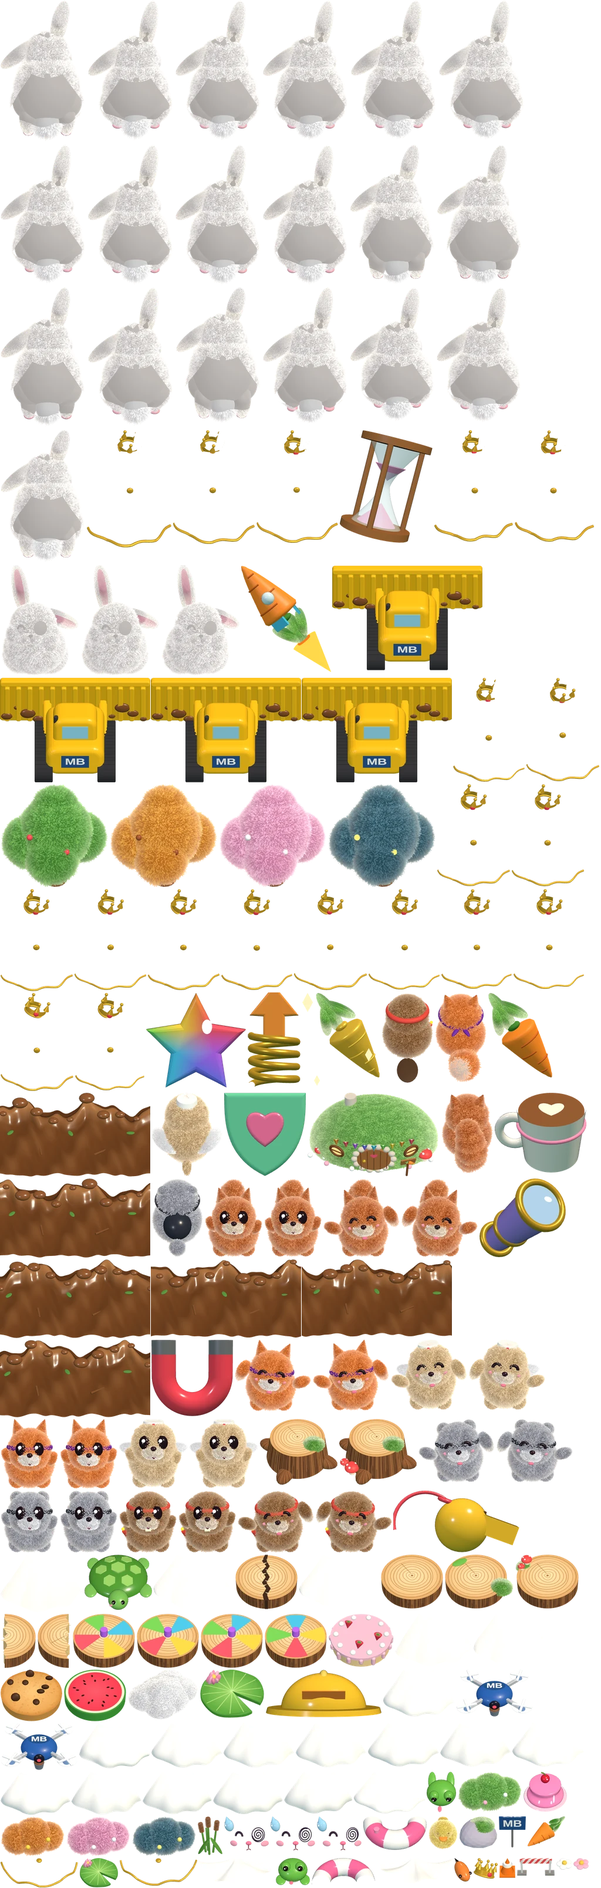
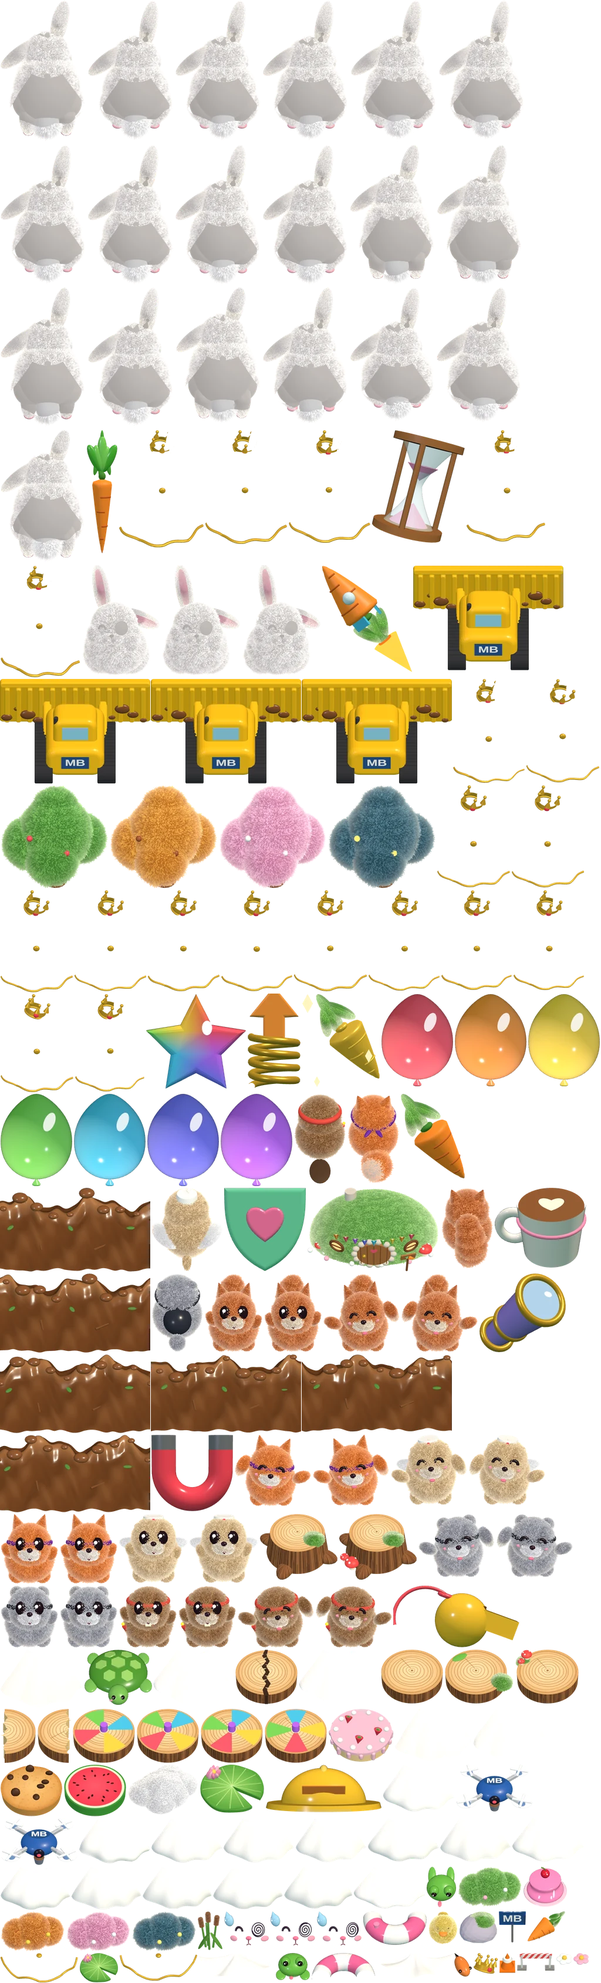
alfa 72889c1: Fans of Jump: la zanahoria de la fuerza más larga y con las hojas siempre verdes

diff --git a/alfa/games/jump/js/atlas.js b/alfa/games/jump/js/atlas.js
@@ -2,4 +2,4 @@
 // Cada dibujo: [x, y, ancho, alto, ax, ay] en la lámina; (ax, ay) es su punto de apoyo. «unidad»: píxeles de la lámina por cada
 // unidad del modelo 3D (de lado, y de alto en el suelo).
 'use strict';
-const ATLAS = {"src":"img/atlas.webp","unidadX":52.5,"unidadY":39.2,"cuadros":{"quieto0_cuerpo":[149,0,148,244,83.0,179.3],"quieto0_capa":[242,3018,119,74,60.0,47.3],"quieto0_oro":[751,1514,122,172,61.5,143.3],"quieto1_cuerpo":[597,0,149,243,83.0,178.8],"quieto1_capa":[362,3018,120,74,60.5,46.8],"quieto1_oro":[874,1514,122,172,62.0,142.8],"quieto2_cuerpo":[0,246,148,242,83.0,178.8],"quieto2_capa":[0,3018,120,75,61.0,46.8],"quieto2_oro":[627,1514,123,173,62.5,142.8],"quieto3_cuerpo":[747,0,149,243,83.0,178.8],"quieto3_capa":[626,2935,122,76,61.0,46.8],"quieto3_oro":[126,1514,124,174,62.5,142.8],"quieto4_cuerpo":[298,0,148,244,83.0,179.3],"quieto4_capa":[257,2935,122,78,61.0,47.3],"quieto4_oro":[744,1335,126,176,62.5,143.3],"quieto5_cuerpo":[149,246,148,242,83.0,179.8],"quieto5_capa":[503,2935,122,77,60.5,47.3],"quieto5_oro":[871,1335,125,176,62.0,143.8],"quieto6_cuerpo":[298,246,148,242,83.0,179.8],"quieto6_capa":[749,2935,122,76,60.0,47.8],"quieto6_oro":[251,1514,124,174,61.5,143.8],"quieto7_cuerpo":[447,246,148,242,83.0,179.8],"quieto7_capa":[121,3018,120,75,59.5,47.3],"quieto7_oro":[376,1514,123,174,61.5,143.8],"agacha_cuerpo":[596,489,146,234,81.5,166.3],"agacha_capa":[483,3018,118,73,59.5,37.8],"agacha_oro":[127,1691,120,168,61.0,131.3],"salto0_cuerpo":[0,732,146,230,80.5,162.3],"salto0_capa":[134,2935,122,79,60.0,50.8],"salto0_oro":[771,1154,124,179,62.0,148.8],"salto1_cuerpo":[299,489,147,237,80.5,168.3],"salto1_capa":[261,2648,138,95,67.0,51.3],"salto1_oro":[294,732,141,196,68.5,149.3],"salto2_cuerpo":[596,246,147,242,80.0,173.8],"salto2_capa":[0,2648,142,100,72.5,51.8],"salto2_oro":[147,732,146,202,74.5,150.3],"salto3_cuerpo":[0,0,148,245,80.5,176.3],"salto3_capa":[672,2749,133,91,68.0,51.8],"salto3_oro":[739,732,136,192,70.0,150.3],"salto4_cuerpo":[744,246,147,242,81.0,176.3],"salto4_capa":[806,2749,134,91,65.0,50.8],"salto4_oro":[876,732,137,192,67.0,149.3],"salto5_cuerpo":[0,489,148,242,81.5,175.8],"salto5_capa":[509,2648,138,94,67.5,49.8],"salto5_oro":[436,732,141,194,69.5,147.8],"aterriza0_cuerpo":[743,489,148,234,82.0,168.8],"aterriza0_capa":[602,3018,123,73,61.0,39.8],"aterriza0_oro":[0,1691,126,169,63.0,133.8],"aterriza1_cuerpo":[447,489,148,237,82.5,172.8],"aterriza1_capa":[652,2844,123,82,61.0,42.8],"aterriza1_oro":[896,1154,126,178,62.5,136.8],"aterriza2_cuerpo":[149,489,149,242,83.0,177.3],"aterriza2_capa":[872,2935,124,76,61.5,45.3],"aterriza2_oro":[500,1514,126,174,63.0,141.3],"aterriza3_cuerpo":[447,0,149,244,83.0,179.3],"aterriza3_capa":[380,2935,122,78,60.5,46.8],"aterriza3_oro":[0,1514,125,176,62.0,142.8],"flota0_cuerpo":[0,963,135,190,59.0,180.8],"flota0_oro":[381,3094,78,60,49.5,105.8],"flota1_cuerpo":[136,963,136,190,61.0,180.8],"flota1_oro":[460,3094,78,60,44.0,105.8],"flota2_cuerpo":[273,963,136,190,63.0,180.8],"flota2_oro":[539,3094,78,60,39.0,105.8],"zorro_susto0":[0,2417,100,121,50.5,102.3],"zorro_susto1":[101,2417,100,121,50.5,102.3],"zorro_espalda":[740,1691,90,154,45.5,96.3],"zorro_anima0":[532,2282,132,123,69.0,104.3],"zorro_anima1":[399,2282,132,124,62.5,104.8],"mapache_susto0":[0,2539,100,108,50.5,89.3],"mapache_susto1":[101,2539,100,108,50.5,89.3],"mapache_espalda":[257,2007,90,136,45.5,96.3],"mapache_anima0":[712,2417,132,110,69.0,91.8],"mapache_anima1":[845,2417,132,110,62.5,91.8],"suricata_susto0":[202,2417,119,120,59.5,101.8],"suricata_susto1":[322,2417,119,120,59.5,101.8],"suricata_espalda":[257,1861,123,144,61.5,106.3],"suricata_anima0":[665,2282,132,122,69.0,103.3],"suricata_anima1":[798,2282,132,122,62.5,103.3],"castor_susto0":[202,2539,100,108,50.5,88.8],"castor_susto1":[303,2539,100,108,50.5,88.8],"castor_espalda":[649,1691,90,155,45.5,96.3],"castor_anima0":[404,2539,132,108,69.0,88.8],"castor_anima1":[537,2539,132,108,62.5,88.8],"ardilla_susto0":[348,2007,100,136,50.5,117.8],"ardilla_susto1":[449,2007,100,136,50.5,117.8],"ardilla_espalda":[751,1861,90,140,45.5,96.3],"ardilla_anima0":[550,2007,132,136,69.0,117.8],"ardilla_anima1":[683,2007,132,136,62.5,117.8],"tronco0":[648,2648,108,94,54.0,36.3],"tronco1":[757,2648,119,94,54.0,36.3],"tronco2":[877,2648,110,94,56.0,36.3],"piel_nenufar":[340,2844,111,84,55.5,37.8],"piel_galleta":[0,2844,107,90,53.5,35.8],"piel_sandia":[108,2844,108,90,54.0,36.3],"piel_tarta":[559,2749,112,92,56.5,36.8],"piel_nube":[217,2844,122,87,62.5,37.8],"tronco_grieta":[400,2648,108,95,54.0,37.3],"tronco_mitad0":[0,2749,62,94,8.0,36.3],"tronco_mitad1":[63,2749,59,94,54.0,36.3],"tocon0":[442,2417,134,114,65.0,61.8],"tocon1":[577,2417,134,114,65.0,61.8],"arbol0":[0,1335,185,178,94.5,160.8],"arbusto0":[779,3018,111,70,56.5,51.8],"roca0":[782,3094,66,56,33.5,39.3],"juncos0":[336,3094,44,68,22.5,64.8],"flor0":[947,3165,28,22,14.5,14.3],"flor1":[976,3165,28,22,14.5,14.3],"dron0":[776,2844,133,82,66.5,86.3],"dron1":[0,2935,133,82,66.5,86.3],"flotador_atras":[530,3165,110,47,55.5,46.3],"flotador_delante":[618,3094,110,59,55.0,16.8],"corona_suelta":[806,3165,43,37,20.0,32.8],"capaflota0":[338,3165,130,48,65.0,14.8],"capaflota1":[641,3165,131,45,65.5,14.8],"capaflota0oro":[0,3165,134,52,66.5,17.3],"capaflota1oro":[203,3165,134,49,67.0,17.3],"zanahoria":[898,3094,66,53,43.0,32.8],"casco_icono":[452,2844,199,83,99.5,139.3],"cafe_icono":[842,1861,158,138,97.0,165.3],"suerte_icono":[514,1691,134,160,64.0,149.3],"mirilla_icono":[816,2007,149,136,78.0,162.8],"iman_icono":[257,2282,141,132,70.5,139.3],"super_icono":[421,1691,92,162,46.0,180.8],"escudo_icono":[381,1861,141,144,70.5,136.8],"zanahoria_icono":[831,1691,111,146,40.5,149.3],"ola0":[514,2145,256,134,128.0,121.3],"ola1":[257,2145,256,135,128.0,122.3],"ola2":[0,2007,256,137,128.0,123.8],"ola3":[0,1861,256,145,128.0,132.3],"ola4":[0,2145,256,136,128.0,122.8],"ola5":[0,2282,256,134,128.0,121.3],"topadora0":[566,963,256,180,128.0,137.3],"topadora1":[0,1154,256,180,128.0,137.3],"topadora2":[257,1154,256,180,128.0,137.3],"topadora3":[514,1154,256,180,128.0,137.3],"reloj_icono":[578,732,160,194,79.0,154.3],"cohete_icono":[410,963,155,183,58.5,127.8],"estrella_icono":[248,1691,172,163,86.0,140.3],"silbato_icono":[670,2539,216,107,128.0,122.8],"gelatina":[891,3018,76,70,38.0,41.3],"madriguera":[523,1861,227,144,114.0,108.3],"patito":[729,3094,52,58,26.0,41.8],"rana":[469,3165,60,48,30.0,34.3],"rana_salta":[726,3018,52,71,26.0,41.8],"nenufar_mini":[135,3165,67,52,33.5,23.8],"pez":[773,3165,32,42,14.5,23.3],"cono":[850,3165,29,36,14.5,24.8],"valla":[880,3165,66,32,33.0,26.8],"cartel":[849,3094,48,55,24.0,53.8],"tortuga":[143,2648,117,96,58.5,36.3],"peonza0":[123,2749,108,94,54.0,36.3],"peonza1":[232,2749,108,94,54.0,36.3],"peonza2":[341,2749,108,94,54.0,36.3],"peonza3":[450,2749,108,94,54.0,36.3],"arbol_otono":[186,1335,185,178,94.5,160.8],"arbol_cerezo":[372,1335,185,178,94.5,160.8],"arbol_noche":[558,1335,185,178,94.5,160.8],"arbusto_otono":[0,3094,111,70,56.5,51.8],"arbusto_cerezo":[112,3094,111,70,56.5,51.8],"arbusto_noche":[224,3094,111,70,56.5,51.8]}};
+const ATLAS = {"src":"img/atlas.webp","unidadX":52.5,"unidadY":39.2,"cuadros":{"quieto0_cuerpo":[149,0,148,244,83.0,179.3],"quieto0_capa":[242,3180,119,74,60.0,47.3],"quieto0_oro":[751,1516,122,172,61.5,143.3],"quieto1_cuerpo":[597,0,149,243,83.0,178.8],"quieto1_capa":[362,3180,120,74,60.5,46.8],"quieto1_oro":[874,1516,122,172,62.0,142.8],"quieto2_cuerpo":[0,246,148,242,83.0,178.8],"quieto2_capa":[0,3180,120,75,61.0,46.8],"quieto2_oro":[627,1516,123,173,62.5,142.8],"quieto3_cuerpo":[747,0,149,243,83.0,178.8],"quieto3_capa":[626,3097,122,76,61.0,46.8],"quieto3_oro":[126,1516,124,174,62.5,142.8],"quieto4_cuerpo":[298,0,148,244,83.0,179.3],"quieto4_capa":[257,3097,122,78,61.0,47.3],"quieto4_oro":[744,1337,126,176,62.5,143.3],"quieto5_cuerpo":[149,246,148,242,83.0,179.8],"quieto5_capa":[503,3097,122,77,60.5,47.3],"quieto5_oro":[871,1337,125,176,62.0,143.8],"quieto6_cuerpo":[298,246,148,242,83.0,179.8],"quieto6_capa":[749,3097,122,76,60.0,47.8],"quieto6_oro":[251,1516,124,174,61.5,143.8],"quieto7_cuerpo":[447,246,148,242,83.0,179.8],"quieto7_capa":[121,3180,120,75,59.5,47.3],"quieto7_oro":[376,1516,123,174,61.5,143.8],"agacha_cuerpo":[596,489,146,234,81.5,166.3],"agacha_capa":[483,3180,118,73,59.5,37.8],"agacha_oro":[127,1693,120,168,61.0,131.3],"salto0_cuerpo":[0,732,146,230,80.5,162.3],"salto0_capa":[134,3097,122,79,60.0,50.8],"salto0_oro":[771,1156,124,179,62.0,148.8],"salto1_cuerpo":[299,489,147,237,80.5,168.3],"salto1_capa":[261,2810,138,95,67.0,51.3],"salto1_oro":[349,732,141,196,68.5,149.3],"salto2_cuerpo":[596,246,147,242,80.0,173.8],"salto2_capa":[0,2810,142,100,72.5,51.8],"salto2_oro":[202,732,146,202,74.5,150.3],"salto3_cuerpo":[0,0,148,245,80.5,176.3],"salto3_capa":[672,2911,133,91,68.0,51.8],"salto3_oro":[794,732,136,192,70.0,150.3],"salto4_cuerpo":[744,246,147,242,81.0,176.3],"salto4_capa":[806,2911,134,91,65.0,50.8],"salto4_oro":[0,963,137,192,67.0,149.3],"salto5_cuerpo":[0,489,148,242,81.5,175.8],"salto5_capa":[509,2810,138,94,67.5,49.8],"salto5_oro":[491,732,141,194,69.5,147.8],"aterriza0_cuerpo":[743,489,148,234,82.0,168.8],"aterriza0_capa":[602,3180,123,73,61.0,39.8],"aterriza0_oro":[0,1693,126,169,63.0,133.8],"aterriza1_cuerpo":[447,489,148,237,82.5,172.8],"aterriza1_capa":[652,3006,123,82,61.0,42.8],"aterriza1_oro":[896,1156,126,178,62.5,136.8],"aterriza2_cuerpo":[149,489,149,242,83.0,177.3],"aterriza2_capa":[872,3097,124,76,61.5,45.3],"aterriza2_oro":[500,1516,126,174,63.0,141.3],"aterriza3_cuerpo":[447,0,149,244,83.0,179.3],"aterriza3_capa":[380,3097,122,78,60.5,46.8],"aterriza3_oro":[0,1516,125,176,62.0,142.8],"flota0_cuerpo":[138,963,135,190,59.0,180.8],"flota0_oro":[381,3256,78,60,49.5,105.8],"flota1_cuerpo":[274,963,136,190,61.0,180.8],"flota1_oro":[460,3256,78,60,44.0,105.8],"flota2_cuerpo":[411,963,136,190,63.0,180.8],"flota2_oro":[539,3256,78,60,39.0,105.8],"zorro_susto0":[0,2579,100,121,50.5,102.3],"zorro_susto1":[101,2579,100,121,50.5,102.3],"zorro_espalda":[591,1863,90,154,45.5,96.3],"zorro_anima0":[532,2444,132,123,69.0,104.3],"zorro_anima1":[399,2444,132,124,62.5,104.8],"mapache_susto0":[0,2701,100,108,50.5,89.3],"mapache_susto1":[101,2701,100,108,50.5,89.3],"mapache_espalda":[257,2169,90,136,45.5,96.3],"mapache_anima0":[712,2579,132,110,69.0,91.8],"mapache_anima1":[845,2579,132,110,62.5,91.8],"suricata_susto0":[202,2579,119,120,59.5,101.8],"suricata_susto1":[322,2579,119,120,59.5,101.8],"suricata_espalda":[257,2023,123,144,61.5,106.3],"suricata_anima0":[665,2444,132,122,69.0,103.3],"suricata_anima1":[798,2444,132,122,62.5,103.3],"castor_susto0":[202,2701,100,108,50.5,88.8],"castor_susto1":[303,2701,100,108,50.5,88.8],"castor_espalda":[500,1863,90,155,45.5,96.3],"castor_anima0":[404,2701,132,108,69.0,88.8],"castor_anima1":[537,2701,132,108,62.5,88.8],"ardilla_susto0":[348,2169,100,136,50.5,117.8],"ardilla_susto1":[449,2169,100,136,50.5,117.8],"ardilla_espalda":[751,2023,90,140,45.5,96.3],"ardilla_anima0":[550,2169,132,136,69.0,117.8],"ardilla_anima1":[683,2169,132,136,62.5,117.8],"tronco0":[648,2810,108,94,54.0,36.3],"tronco1":[757,2810,119,94,54.0,36.3],"tronco2":[877,2810,110,94,56.0,36.3],"piel_nenufar":[340,3006,111,84,55.5,37.8],"piel_galleta":[0,3006,107,90,53.5,35.8],"piel_sandia":[108,3006,108,90,54.0,36.3],"piel_tarta":[559,2911,112,92,56.5,36.8],"piel_nube":[217,3006,122,87,62.5,37.8],"tronco_grieta":[400,2810,108,95,54.0,37.3],"tronco_mitad0":[0,2911,62,94,8.0,36.3],"tronco_mitad1":[63,2911,59,94,54.0,36.3],"tocon0":[442,2579,134,114,65.0,61.8],"tocon1":[577,2579,134,114,65.0,61.8],"arbol0":[0,1337,185,178,94.5,160.8],"arbusto0":[779,3180,111,70,56.5,51.8],"roca0":[782,3256,66,56,33.5,39.3],"juncos0":[336,3256,44,68,22.5,64.8],"flor0":[947,3327,28,22,14.5,14.3],"flor1":[976,3327,28,22,14.5,14.3],"dron0":[776,3006,133,82,66.5,86.3],"dron1":[0,3097,133,82,66.5,86.3],"flotador_atras":[530,3327,110,47,55.5,46.3],"flotador_delante":[618,3256,110,59,55.0,16.8],"corona_suelta":[806,3327,43,37,20.0,32.8],"capaflota0":[338,3327,130,48,65.0,14.8],"capaflota1":[641,3327,131,45,65.5,14.8],"capaflota0oro":[0,3327,134,52,66.5,17.3],"capaflota1oro":[203,3327,134,49,67.0,17.3],"zanahoria":[898,3256,66,53,43.0,32.8],"casco_icono":[452,3006,199,83,99.5,139.3],"cafe_icono":[842,2023,158,138,97.0,165.3],"suerte_icono":[514,1693,134,160,64.0,149.3],"mirilla_icono":[816,2169,149,136,78.0,162.8],"iman_icono":[257,2444,141,132,70.5,139.3],"super_icono":[421,1693,92,162,46.0,180.8],"escudo_icono":[381,2023,141,144,70.5,136.8],"zanahoria_icono":[682,1863,111,146,40.5,149.3],"ola0":[514,2307,256,134,128.0,121.3],"ola1":[257,2307,256,135,128.0,122.3],"ola2":[0,2169,256,137,128.0,123.8],"ola3":[0,2023,256,145,128.0,132.3],"ola4":[0,2307,256,136,128.0,122.8],"ola5":[0,2444,256,134,128.0,121.3],"topadora0":[704,963,256,180,128.0,137.3],"topadora1":[0,1156,256,180,128.0,137.3],"topadora2":[257,1156,256,180,128.0,137.3],"topadora3":[514,1156,256,180,128.0,137.3],"fuerza_icono":[147,732,54,212,27.0,154.3],"globo0_icono":[649,1693,124,159,62.0,144.8],"globo1_icono":[774,1693,124,159,62.0,144.8],"globo2_icono":[899,1693,124,159,62.0,144.8],"globo3_icono":[0,1863,124,159,62.0,144.8],"globo4_icono":[125,1863,124,159,62.0,144.8],"globo5_icono":[250,1863,124,159,62.0,144.8],"globo6_icono":[375,1863,124,159,62.0,144.8],"reloj_icono":[633,732,160,194,79.0,154.3],"cohete_icono":[548,963,155,183,58.5,127.8],"estrella_icono":[248,1693,172,163,86.0,140.3],"silbato_icono":[670,2701,216,107,128.0,122.8],"gelatina":[891,3180,76,70,38.0,41.3],"madriguera":[523,2023,227,144,114.0,108.3],"patito":[729,3256,52,58,26.0,41.8],"rana":[469,3327,60,48,30.0,34.3],"rana_salta":[726,3180,52,71,26.0,41.8],"nenufar_mini":[135,3327,67,52,33.5,23.8],"pez":[773,3327,32,42,14.5,23.3],"cono":[850,3327,29,36,14.5,24.8],"valla":[880,3327,66,32,33.0,26.8],"cartel":[849,3256,48,55,24.0,53.8],"tortuga":[143,2810,117,96,58.5,36.3],"peonza0":[123,2911,108,94,54.0,36.3],"peonza1":[232,2911,108,94,54.0,36.3],"peonza2":[341,2911,108,94,54.0,36.3],"peonza3":[450,2911,108,94,54.0,36.3],"arbol_otono":[186,1337,185,178,94.5,160.8],"arbol_cerezo":[372,1337,185,178,94.5,160.8],"arbol_noche":[558,1337,185,178,94.5,160.8],"arbusto_otono":[0,3256,111,70,56.5,51.8],"arbusto_cerezo":[112,3256,111,70,56.5,51.8],"arbusto_noche":[224,3256,111,70,56.5,51.8]}};

diff --git a/alfa/games/jump/js/pantalla.js b/alfa/games/jump/js/pantalla.js
@@ -113,23 +113,25 @@ function pintaPunteria() {
 // para calcular el salto, y al máximo brilla y suelta destellos
 const FUERZA = { x: 0, y: 0, alto: 0 };
 function pintaFuerza(f, max) {
-  const alto = PAN.H * 0.2, x = PAN.W - 11, y = PAN.H * 0.29, t = JUEGO.t, c = ATLAS.cuadros.zanahoria_icono;
-  const FINA = 0.5, LARGA = 1.3;   // más fina y más alargada que el icono de siempre
-  // el icono va en diagonal: se pone de pie girándolo, y se escala para que de punta a hojas mida «alto» (por LARGA)
-  const k = c ? alto / Math.hypot(c[2], c[3]) / 0.92 : 0, cy = y + alto * LARGA / 2;
-  const zana = () => { if (!c) return; G.save(); G.translate(x, cy); G.scale(FINA, LARGA); G.rotate(0.62); spriteEnCaja('zanahoria_icono', -c[2] * k / 2, -c[3] * k / 2, c[2] * k, c[3] * k, 0); G.restore(); };
-  // dónde va el cuerpo naranja (de la punta, abajo, a donde empiezan las hojas)
-  const punta = cy + alto * 0.47 * LARGA, arriba = cy - alto * 0.14 * LARGA, lleno = punta - (punta - arriba) * f;
-  if (max) { const g = G.createRadialGradient(x, (punta + arriba) / 2, 2, x, (punta + arriba) / 2, alto * 0.5); g.addColorStop(0, `rgba(255,230,140,${0.55 + Math.sin(t * 14) * 0.2})`); g.addColorStop(1, 'rgba(255,230,140,0)'); G.fillStyle = g; G.fillRect(x - alto * 0.5, y, alto, alto); }
-  G.save(); G.filter = 'grayscale(1) brightness(1.25)'; G.globalAlpha = 0.55; zana(); G.restore();
-  G.save(); G.beginPath(); G.rect(x - alto, lleno, alto * 2, alto * 2); G.clip(); zana(); G.restore();
+  // la zanahoria 3D de la fuerza (fuerza_icono): de pie, larga, con las hojas siempre verdes; el cuerpo se llena de la punta
+  // hacia arriba (lo que falta, en gris) y tiene marcas al 25, 50 y 75 %
+  const c = ATLAS.cuadros.fuerza_icono, t = JUEGO.t, HOJAS = 0.41;   // HOJAS: hasta dónde llegan las hojas (desde arriba)
+  if (!c || !laminaLista) return;
+  const alto = PAN.H * 0.34, w = alto * c[2] / c[3], x = PAN.W - 8 - w / 2, y = PAN.H * 0.22;
+  const arriba = y + alto * HOJAS, punta = y + alto, lleno = punta - (punta - arriba) * f;
+  const dibuja = () => G.drawImage(LAMINA, c[0], c[1], c[2], c[3], x - w / 2, y, w, alto);
+  const trozo = (y0, y1, fn) => { G.save(); G.beginPath(); G.rect(x - w, y0, w * 2, y1 - y0); G.clip(); fn(); G.restore(); };
+  if (max) { const g = G.createRadialGradient(x, (punta + arriba) / 2, 2, x, (punta + arriba) / 2, alto * 0.45); g.addColorStop(0, `rgba(255,230,140,${0.55 + Math.sin(t * 14) * 0.2})`); g.addColorStop(1, 'rgba(255,230,140,0)'); G.fillStyle = g; G.fillRect(x - alto * 0.45, y, alto * 0.9, alto); }
+  trozo(y - 2, arriba, dibuja);                                                                       // las hojas, siempre
+  trozo(arriba, lleno, () => { G.filter = 'grayscale(1) brightness(1.25)'; G.globalAlpha = 0.55; dibuja(); });   // lo que falta
+  trozo(lleno, punta + 4, dibuja);                                                                    // lo cargado
   // las marcas: rayitas blancas con borde, a la izquierda de la zanahoria
   [0.25, 0.5, 0.75].forEach(k => {
     const yy = punta - (punta - arriba) * k, ya = f >= k;
-    trazo(x - 8, yy, x - 4, yy, 1.1, ya ? '#ffffff' : 'rgba(255,255,255,0.75)', OLC);
-    letras(Math.round(k * 100) + '', x - 9.5, yy + 0.3, 4.6, ya ? '#ffffff' : 'rgba(255,255,255,0.8)', { alin: 'right', borde: OLC, bw: 1.4 });
+    trazo(x - w * 0.3 - 5, yy, x - w * 0.3 - 1, yy, 1.1, ya ? '#ffffff' : 'rgba(255,255,255,0.75)', OLC);
+    letras(Math.round(k * 100) + '', x - w * 0.3 - 6.5, yy + 0.3, 4.8, ya ? '#ffffff' : 'rgba(255,255,255,0.8)', { alin: 'right', borde: OLC, bw: 1.4 });
   });
-  if (max) for (let i = 0; i < 3; i++) { const k = (t * 1.8 + i / 3) % 1; estrellita(x + Math.cos(i * 2.1 + t) * 4, arriba + (punta - arriba) * (1 - k), 2.2 * Math.sin(k * Math.PI), 0.95); }
+  if (max) for (let i = 0; i < 3; i++) { const k = (t * 1.8 + i / 3) % 1; estrellita(x + Math.cos(i * 2.1 + t) * 4, arriba + (punta - arriba) * (1 - k), 2.4 * Math.sin(k * Math.PI), 0.95); }
 }
 
 function pintaMarcador() {

diff --git a/alfa/index.html b/alfa/index.html
@@ -10,10 +10,10 @@
 <link rel="preconnect" href="https://fonts.googleapis.com">
 <link rel="preconnect" href="https://fonts.gstatic.com" crossorigin>
 <link rel="stylesheet" href="https://fonts.googleapis.com/css2?family=Baloo+2:wght@600;700;800&family=Luckiest+Guy&display=swap">
-<link rel="stylesheet" href="core/css/base.css?v=b091779">
-<link rel="stylesheet" href="biblioteca/tienda.css?v=b091779">
-<link rel="stylesheet" href="novedades/ventana.css?v=b091779">
-<link rel="stylesheet" href="biblioteca/votos.css?v=b091779">
+<link rel="stylesheet" href="core/css/base.css?v=72889c1">
+<link rel="stylesheet" href="biblioteca/tienda.css?v=72889c1">
+<link rel="stylesheet" href="novedades/ventana.css?v=72889c1">
+<link rel="stylesheet" href="biblioteca/votos.css?v=72889c1">
 <style>
   /* la entrada de la web: una tarjeta por juego, con los colores y las letras de core */
   body { overflow: auto; touch-action: auto; align-items: flex-start; }
@@ -235,8 +235,8 @@
   </section>
   <p class="note">© 2026 Arkioner y Pepins · MicroBlizz · Todos los derechos reservados</p>
 </main>
-<script src="core/js/nucleo.js?v=0-a357.b091779"></script>
-<script src="core/js/novedades.js?v=b091779"></script>
+<script src="core/js/nucleo.js?v=0-a358.72889c1"></script>
+<script src="core/js/novedades.js?v=72889c1"></script>
 <script>
 // La cuenta de la web es la misma de los juegos (core/js/sistema/cuenta.js, mismo navegador = misma sesión). Aquí no hay partida que subir.
 const AJUSTES = { id: 'web', guardado: 'fansof-web' }, SAVE_KEY = AJUSTES.guardado, SAVE = {};
@@ -245,7 +245,7 @@ const HOOKS = {};
 function hook(name, fn) { (HOOKS[name] = HOOKS[name] || []).push(fn); }
 function fire(name, ...a) { let out = ''; for (const fn of HOOKS[name] || []) { const r = fn(...a); if (typeof r === 'string') out += r; } return out; }
 </script>
-<script src="core/js/sistema/cuenta.js?v=b091779"></script>
+<script src="core/js/sistema/cuenta.js?v=72889c1"></script>
 <script>NUCLEO.idiomaSolo({ en: ['core/idioma/en-raiz.js', 'novedades/en.js', 'biblioteca/en.js','games/rumble/idioma/en-7.js', 'games/td/idioma/en-2.js', 'games/survivors/idioma/en.js', 'games/crush/idioma/en-raiz.js', 'games/jump/idioma/en-raiz.js', 'games/dark/idioma/en-raiz.js', 'games/nova/idioma/en-raiz.js', 'demos/beams/idioma/en-raiz.js', 'games/island/idioma/en-raiz.js', 'demos/rumble-3d/idioma/en-raiz.js', 'demos/roguelite/idioma/en-raiz.js', 'demos/tactics-advance/idioma/en-raiz.js', 'games/rouflage/idioma/en-raiz.js', 'demos/dungeons/idioma/en-raiz.js', 'games/karts/idioma/en-raiz.js', 'demos/recruit/idioma/en-raiz.js', 'demos/terminal-shock/idioma/en-raiz.js', 'games/ratkov/idioma/en-raiz.js'] })</script>
 <script>
 // La versión y las novedades salen de los archivos de cada juego, así que esta página nunca se queda atrás.
@@ -271,11 +271,11 @@ const fail = id => () => {
 };
 
 </script>
-<script src="novedades/ventana.js?v=b091779"></script>
-<script src="biblioteca/tienda.js?v=b091779"></script>
-<script src="biblioteca/cuenta-web.js?v=b091779"></script>
-<script src="biblioteca/votos.js?v=b091779"></script>
-<script src="biblioteca/alfa.js?v=b091779"></script>
-<script src="core/js/sistema/analitica.js?v=b091779"></script>
+<script src="novedades/ventana.js?v=72889c1"></script>
+<script src="biblioteca/tienda.js?v=72889c1"></script>
+<script src="biblioteca/cuenta-web.js?v=72889c1"></script>
+<script src="biblioteca/votos.js?v=72889c1"></script>
+<script src="biblioteca/alfa.js?v=72889c1"></script>
+<script src="core/js/sistema/analitica.js?v=72889c1"></script>
 </body>
 </html>

diff --git a/alfa/games/jump/js/fiesta.js b/alfa/games/jump/js/fiesta.js
@@ -100,15 +100,13 @@ function pintaFans(t) {
     sprite(f.id + '_anima' + (Math.floor(f.f * 5) % 2), x, y - bote, 11, Math.sin(f.f * 7) * 0.08, f.lado < 0 ? 1 : -1, 1);
   }
 }
+// un globo de látex 3D (globo0_icono…globo6_icono, uno por color del arcoíris) con su cuerda; al explotar, estrellitas
 function pintaGlobo(g) {
-  const k = g.pum ? 1 + g.pum * 6 : 1;
-  if (g.pum) { G.globalAlpha = Math.max(0, 1 - g.pum * 4); for (let i = 0; i < 6; i++) { const a = i * 1.047; estrellita(g.x + Math.cos(a) * g.r * k, g.y + Math.sin(a) * g.r * k, 2, 1); } G.globalAlpha = 1; return; }
+  if (g.pum) { const k = 1 + g.pum * 6; G.globalAlpha = Math.max(0, 1 - g.pum * 4); for (let i = 0; i < 6; i++) { const a = i * 1.047; estrellita(g.x + Math.cos(a) * g.r * k, g.y + Math.sin(a) * g.r * k, 2, 1); } G.globalAlpha = 1; return; }
   const s = Math.sin(g.f * 2) * 3;
-  G.beginPath(); G.moveTo(g.x, g.y + g.r * 1.2); G.quadraticCurveTo(g.x + s, g.y + g.r * 2.2, g.x - s * 0.5, g.y + g.r * 3.4);
+  G.beginPath(); G.moveTo(g.x, g.y + g.r * 1.15); G.quadraticCurveTo(g.x + s, g.y + g.r * 2.2, g.x - s * 0.5, g.y + g.r * 3.4);
   G.lineWidth = 0.6; G.strokeStyle = 'rgba(80,60,100,0.6)'; G.stroke();
-  G.beginPath(); G.moveTo(g.x - 1.3, g.y + g.r * 1.25); G.lineTo(g.x + 1.3, g.y + g.r * 1.25); G.lineTo(g.x, g.y + g.r * 1.05); G.closePath(); G.fillStyle = g.c; G.fill();
-  elipse(g.x, g.y, g.r, g.r * 1.18, vol(g.x, g.y, g.r, g.r * 1.18, g.c), OLC, 0.8);
-  elipse(g.x - g.r * 0.35, g.y - g.r * 0.45, g.r * 0.22, g.r * 0.36, 'rgba(255,255,255,0.7)', null, 0, 0.5);
+  aqui(g.x, g.y, Math.sin(g.f * 1.6) * 0.08, 1, 1, () => spriteEnCaja('globo' + ARCOIRIS.indexOf(g.c) + '_icono', -g.r * 1.2, -g.r * 1.3, g.r * 2.4, g.r * 2.6, 0));
 }
 // encima del mundo: globos, mariposas de fiesta, fuegos artificiales y el borde arcoíris
 function pintaFiestaAire(t) {

diff --git a/alfa/games/rouflage/index.html b/alfa/games/rouflage/index.html
@@ -10,7 +10,7 @@
 <link rel="preconnect" href="https://fonts.googleapis.com">
 <link rel="preconnect" href="https://fonts.gstatic.com" crossorigin>
 <link rel="stylesheet" href="https://fonts.googleapis.com/css2?family=Baloo+2:wght@600;700;800&family=Luckiest+Guy&display=swap">
-<script src="../../core/js/nucleo.js?v=0.2.39-a357.b091779"></script>
+<script src="../../core/js/nucleo.js?v=0.2.39-a358.72889c1"></script>
 <script>NUCLEO.estilos('../../core/css/base.css', '../../core/css/menus.css', '../../core/css/menus-extra.css')</script>
 <script>NUCLEO.estilos('estilo.css', 'estilo-taller.css', 'estilo-pantallas.css', 'estilo-pvp.css', 'estilo-armario.css', 'estilo-menus.css', 'estilo-misiones.css', 'estilo-escenario.css', 'estilo-votos.css', 'estilo-gacha.css', 'estilo-compra.css', 'estilo-fin.css', 'estilo-talentos.css')</script>
 </head>

diff --git a/alfa/games/karts/index.html b/alfa/games/karts/index.html
@@ -8,7 +8,7 @@
 <meta name="description" content="Fans of Karts (juego): carreras de karts en pixel art de consola portátil con los líderes de Fans of Rumble. Tres pistas, seis pilotos, objetos con mala idea y Microblizz, que ha comprado la carrera.">
 <link rel="icon" type="image/png" href="img/icon-192.png">
 <link rel="apple-touch-icon" href="img/icon-192.png">
-<script src="../../core/js/nucleo.js?v=0.7.2-a357.b091779"></script>
+<script src="../../core/js/nucleo.js?v=0.7.2-a358.72889c1"></script>
 <script>NUCLEO.estilos('../../core/css/base.css', '../../core/css/menus.css', '../../core/css/menus-tienda.css', '../../core/css/menus-extra.css', 'css/tienda.css', 'css/pvp.css')</script>
 <link rel="stylesheet" href="https://fonts.googleapis.com/css2?family=Baloo+2:wght@600;700;800&family=Luckiest+Guy&display=swap">
 <style>

diff --git a/alfa/games/dark/index.html b/alfa/games/dark/index.html
@@ -12,7 +12,7 @@
 <link rel="stylesheet" href="https://fonts.googleapis.com/css2?family=Baloo+2:wght@600;700;800&family=Luckiest+Guy&family=Press+Start+2P&family=Pixelify+Sans:wght@400;600;700&display=swap">
 <link rel="stylesheet" href="css/dark.css?v=0.2.4">
 <!-- Prototipo: no usa NUCLEO (tiene su propia partida guardada). Carga de core el arte, la música, los efectos y las cifras del Rumble.
-     VERSIÓN para desplegar.py (que la busca así): nucleo.js?v=0.2.7-a357.b091779' (aquí solo se anota; súbela junto al ?v= de los scripts). -->
+     VERSIÓN para desplegar.py (que la busca así): nucleo.js?v=0.2.7-a358.72889c1' (aquí solo se anota; súbela junto al ?v= de los scripts). -->
 </head>
 <body>
 <canvas id="cv" aria-label="Mazmorra"></canvas>

diff --git a/alfa/games/rumble/index.html b/alfa/games/rumble/index.html
@@ -16,7 +16,7 @@
 <link rel="preconnect" href="https://fonts.gstatic.com" crossorigin>
 <link rel="stylesheet" href="https://fonts.googleapis.com/css2?family=Baloo+2:wght@600;700;800&family=Luckiest+Guy&display=swap">
 <!-- core/js/nucleo.js carga lo común y el juego. LA VERSIÓN SE ESCRIBE SOLO AQUÍ, en su ?v= -->
-<script src="../../core/js/nucleo.js?v=0.9.146-a357.b091779"></script>
+<script src="../../core/js/nucleo.js?v=0.9.146-a358.72889c1"></script>
 <script>NUCLEO.estilos('../../core/css/menus.css', 'css/estilos-partida.css', 'css/estilos-extra.css', 'css/arena.css', '../../core/css/biblioteca.css', 'css/facciones-y-jefes.css', '../../core/css/clasificacion.css', 'css/frases.css', 'css/mitica.css', 'css/paletas.css')</script>
 
 </head>

diff --git a/alfa/games/jump/index.html b/alfa/games/jump/index.html
@@ -12,7 +12,7 @@
 <link rel="preconnect" href="https://fonts.gstatic.com" crossorigin>
 <link rel="stylesheet" href="https://fonts.googleapis.com/css2?family=Baloo+2:wght@600;700;800&family=Luckiest+Guy&display=swap">
 <!-- ?v= es la versión del juego (la misma en la web y en la app): súbela al publicar y pon su entrada en js/novedades.js -->
-<script src="../../core/js/nucleo.js?v=0.3.3-a357.b091779"></script>
+<script src="../../core/js/nucleo.js?v=0.3.3-a358.72889c1"></script>
 <script>NUCLEO.estilos('../../core/css/base.css', '../../core/css/menus.css')</script>
 <style>
 /* Fans of Jump: un solo canvas a la resolución real de la pantalla, con los dibujos 3D. El mundo mide unos 200 de ancho y se

diff --git a/alfa/games/decks/index.html b/alfa/games/decks/index.html
@@ -15,7 +15,7 @@
 <link rel="preconnect" href="https://fonts.gstatic.com" crossorigin>
 <link rel="stylesheet" href="https://fonts.googleapis.com/css2?family=Baloo+2:wght@600;700;800&family=Luckiest+Guy&display=swap">
 <!-- core/js/nucleo.js carga lo común y el juego. LA VERSIÓN SE ESCRIBE SOLO AQUÍ, en su ?v= -->
-<script src="../../core/js/nucleo.js?v=0.2.9-a357.b091779"></script>
+<script src="../../core/js/nucleo.js?v=0.2.9-a358.72889c1"></script>
 <script>NUCLEO.estilos('../../core/css/base.css', '../../core/css/menus.css', 'css/decks.css', 'css/decks-reunion.css', 'css/decks-anim.css', 'css/decks-campana.css', 'css/decks-lideres.css')</script>
 </head>
 <body>

diff --git a/alfa/games/ratkov/index.html b/alfa/games/ratkov/index.html
@@ -13,7 +13,7 @@
 <link rel="preconnect" href="https://fonts.gstatic.com" crossorigin>
 <link rel="stylesheet" href="https://fonts.googleapis.com/css2?family=VT323&family=Russo+One&display=swap">
 <script src="https://cdnjs.cloudflare.com/ajax/libs/three.js/r128/three.min.js"></script>
-<script src="../../core/js/nucleo.js?v=0.2.17-a357.b091779"></script>
+<script src="../../core/js/nucleo.js?v=0.2.17-a358.72889c1"></script>
 <script>NUCLEO.estilos('../../core/css/base.css', '../../core/css/menus.css')</script>
 <link rel="stylesheet" href="estilo.css?v=0.2.3">
 <link rel="stylesheet" href="estilo-refugio.css?v=0.2.3">

diff --git a/alfa/games/survivors/index.html b/alfa/games/survivors/index.html
@@ -15,7 +15,7 @@
 <link rel="preconnect" href="https://fonts.gstatic.com" crossorigin>
 <link rel="stylesheet" href="https://fonts.googleapis.com/css2?family=Baloo+2:wght@600;700;800&family=Luckiest+Guy&display=swap">
 <!-- core/js/nucleo.js carga lo común y el juego. LA VERSIÓN SE ESCRIBE SOLO AQUÍ, en su ?v= -->
-<script src="../../core/js/nucleo.js?v=0.1.59-a357.b091779"></script>
+<script src="../../core/js/nucleo.js?v=0.1.59-a358.72889c1"></script>
 <script>NUCLEO.estilos('../../core/css/base.css', '../../core/css/menus.css', 'css/survivors.css', '../../core/css/biblioteca.css')</script>
 </head>
 <body>
